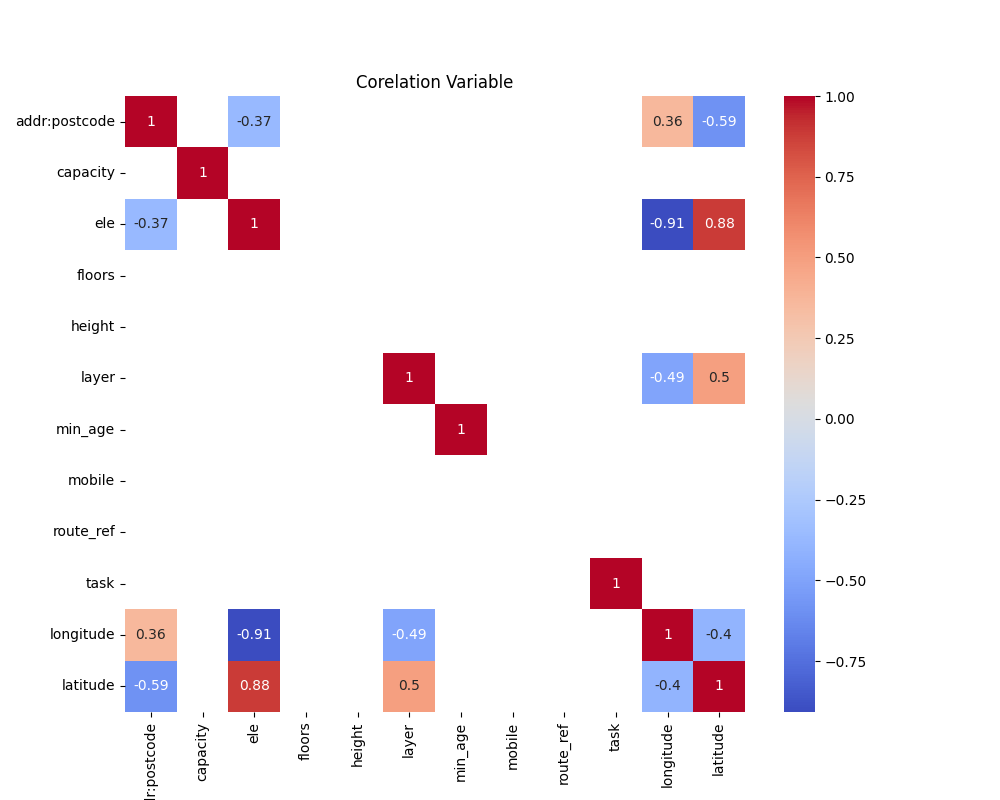
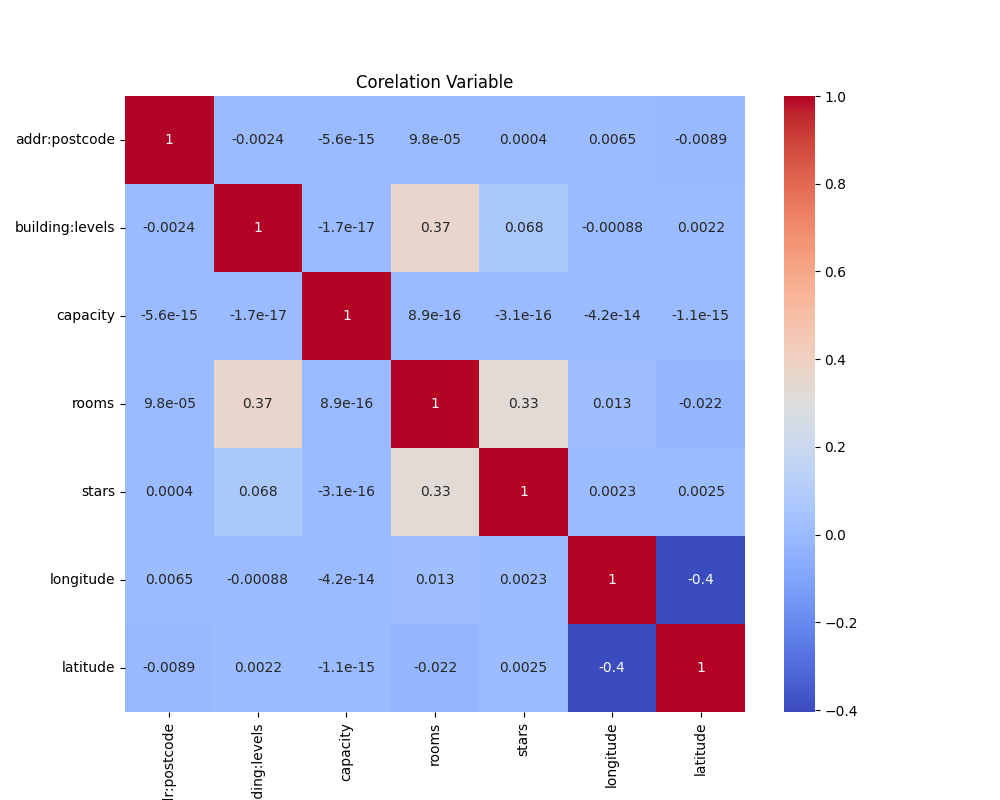
commit last changes

diff --git a/app.py b/app.py
@@ -7,63 +7,45 @@ pd.set_option('display.max_rows', 300)
 
 df = pd.read_csv('./datasets/public_facility.csv')
 
-df = df.drop(columns=[
-    'id', '@id', 'abandoned', 'abandoned:railway', 'access', 'access:roof',
-    'addr:full', 'addr:housename', 'addr:unit', 'air_conditioning',
-    'alt_name', 'amenity_1', 'area', 'atm', 'baby_feeding', 'barrier',
-    'bicycle', 'bicycle_parking', 'branch', 'brand:en', 'brand:id',
-    'brand:wikidata', 'brand:wikipedia', 'brand:zh', 'building:colour',
-    'building:condition', 'building:floor', 'building:levels',
-    'building:material', 'building:part', 'building:roof', 'building:structure',
-    'building:use', 'building:walls', 'bus', 'cash_in', 'cash_out',
-    'cash_withdrawal', 'changing_table', 'check_date', 'compressed_air',
-    'contact:facebook', 'contact:instagram', 'contact:phone', 'contact:twitter',
-    'contact:whatsapp', 'contact:youtube', 'created_by', 'crossing',
-    'currency:IDR', 'currency:rupiah', 'denomination', 'designation',
-    'dispensing', 'disused:railway', 'door', 'drive_through', 'email',
-    'emergency', 'entrance', 'facebook', 'fax', 'female', 'fixme', 'foot',
-    'fuel:GTL_diesel', 'fuel:biodiesel', 'fuel:diesel', 'fuel:lpg',
-    'fuel:octane_88', 'fuel:octane_90', 'fuel:octane_92', 'fuel:octane_95',
-    'fuel:octane_98', 'fuel:solar', 'gate:type', 'government', 'grades', 'health_amenity:type', 'healthcare', 'healthcare:speciality',
- 'historic', 'image', 'incline', 'indoor', 'inscription',
-    'instagram', 'insurance:health', 'int_name', 'internet_access:fee',
-    'internet_access:ssid', 'isced:level', 'kids_area', 'landuse', 'leaf_type',
-    'leisure', 'lift_gate:type', 'lit', 'locked', 'male', 'material',
-    'maxheight', 'maxstay', 'mofa', 'moped', 'motor_vehicle', 'motorcar',
-    'motorcycle', 'museum', 'name:de', 'name:en', 'name:hi', 'name:id',
-    'name:it', 'name:ja', 'name:ko', 'name:nl', 'name:signed', 'name:su',
-    'name:vi', 'name:zh', 'network', 'network:wikidata', 'noexit',
-    'not:brand:wikidata', 'note', 'office', 'official_name', 'official_name:en',
-    'official_name:id', 'old_name', 'oneway', 'opening_hours:covid19',
-    'operator:en', 'operator:id', 'operator:type', 'operator:website',
-    'operator:wikidata', 'operator:wikipedia', 'operator_type', 'orientation',
-    'outdoor_seating', 'park_ride', 'parking:orientation', 'parking_space',
-    'payment:cards', 'payment:cash', 'payment:coins', 'payment:contactless',
-    'payment:credit_cards', 'payment:cryptocurrencies',
-    'payment:debit_cards', 'payment:electronic_purses', 'payment:gpn_debit',
-    'payment:maestro', 'payment:mastercard', 'payment:notes', 'payment:visa',
-    'payment:visa_debit', 'payment:visa_electron', 'phone', 'place_of_worship',
-    'product', 'railway', 'railway:ref', 'ref', 'religion',
-    'reservation', 'roof:colour', 'roof:material', 'room', 'rooms',
-    'school:gender', 'school:type_idn', 'security_desk', 'self_service',
-    'service_times', 'shelter', 'short_name', 'smoking', 'smoothness',
-    'source', 'sport', 'stars', 'start_date', 'supervised', 'surface',
-    'tactile_paving', 'taxi_vehicle', 'toilets:access', 'toilets:wheelchair',
-    'tourism', 'townhall:type', 'traffic_signals:sound', 'training',
-    'type', 'type:id', 'url', 'vehicle', 'wall', 'website', 'wikidata',
-    'wikimedia_commons', 'wikipedia', 'addr:city', 'addr:country', 'addr:housenumber', 'addr:neighbourhood', 'addr:province','admin_level','capacity:cargo_bike', 'capacity:disabled', 'capacity:persons','addr:suburb','floors','wheelchair', 'min_age'
-])
+num_drop_cols = ['admin_level', 'capacity:cargo_bike', 'capacity:disabled', 'capacity:persons', 'floors', 'height', 'layer', 'min_age', 'mobile', 'task', 'route_ref', 'ele']
+
+df = df.drop(columns=num_drop_cols)
+
+df['capacity'] = df['capacity'].fillna(df['capacity'].mean())
+df['rooms'] = df['rooms'].fillna(df['rooms'].mean())
+df['stars'] = df['stars'].fillna(df['stars'].mean())
+df['latitude'] = df['latitude'].fillna(df['latitude'].mean())
+df['longitude'] = df['longitude'].fillna(df['longitude'].mean())
+df['building:levels'] = df['building:levels'].fillna(df['building:levels'].mean())
+df['addr:postcode'] = df['addr:postcode'].fillna(df['addr:postcode'].mean())
+
+# correlation = df.corr()
+
+print(df['capacity'].describe())
+print(df['capacity'].value_counts())
 
 # print(df.describe())
-print(df.info())
 
-# print(df.dtypes)
-# print(df.head())
-# print(df.isna().sum())
-# print(df.isnull().sum())
-# df_filled = df.fillna(df.mean())
+missing_val = df.select_dtypes(include=[np.number]).isnull().sum()
+percentage_missing = (missing_val / len(df)) * 100
+missing_data_info = pd.DataFrame({'Missing Value': missing_val, 'Percentage': percentage_missing})
+print(missing_data_info)
+
+
+
+
+
+# Langkah 4: Cek apakah datanya bervariasi
+print('Rooms unique values:', df['rooms'].nunique())
+print('Capacity unique values:', df['capacity'].nunique())
+
+
+
+
 
 # plt.figure(figsize=(10,8))
 # sns.heatmap(df.select_dtypes(include=[np.number]).corr(), annot=True, cmap='coolwarm')
 # plt.title('Corelation Variable')
 # plt.savefig('Correlation_Variable.png')
+
+
